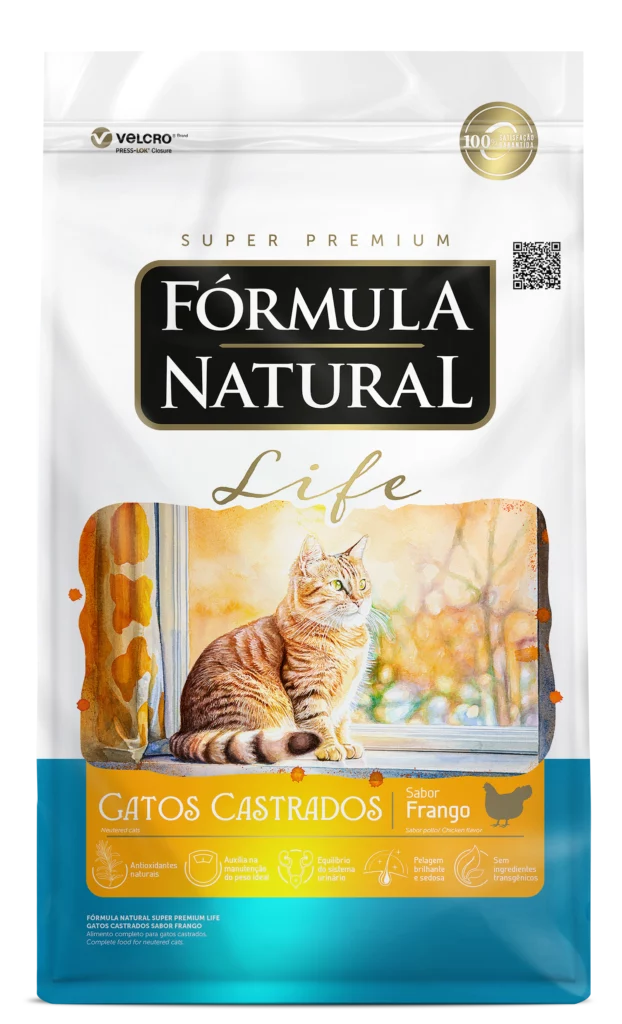
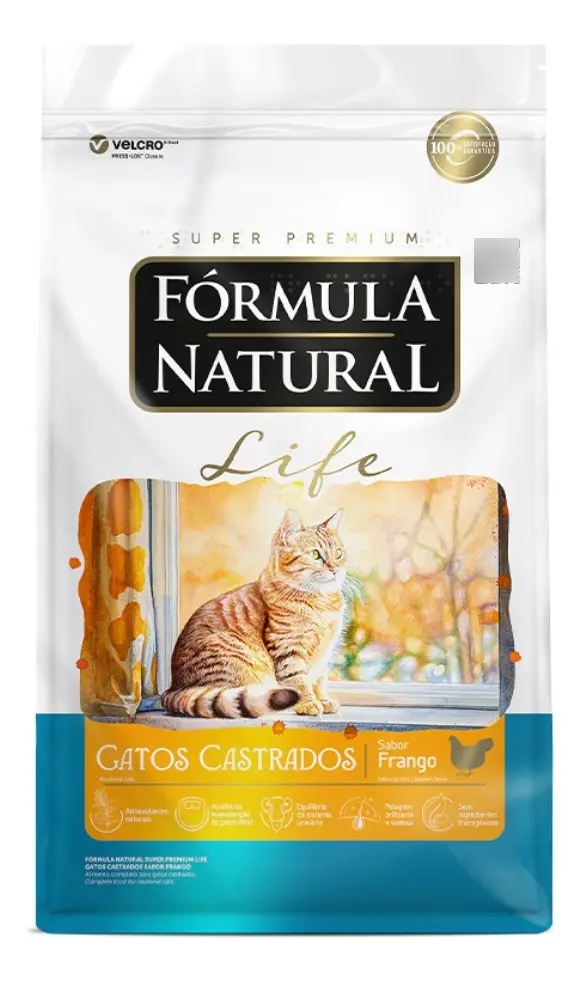
Usa a foto da versão 1kg também na 10kg (embalagem não muda, só o peso)

diff --git a/seed-manejo-mix.html b/seed-manejo-mix.html
@@ -210,7 +210,7 @@ const produtos = [
   },
   {
     id: 66, categoria: "racao-gato", ordem: 10, nome: "Fórmula Natural Life Gatos Castrados Frango 10kg", preco: 245.00,
-    imagem: "./assets/formula-natural-life-gatos-castrados-frango-10kg.webp?v=20261024b",
+    imagem: "./assets/formula-natural-life-gatos-castrados-frango-10kg.webp?v=20261024c",
     descricao: "Rica em proteína animal de alto valor biológico, com cálcio, fósforo e ferro — sabor frango.",
   },
 
